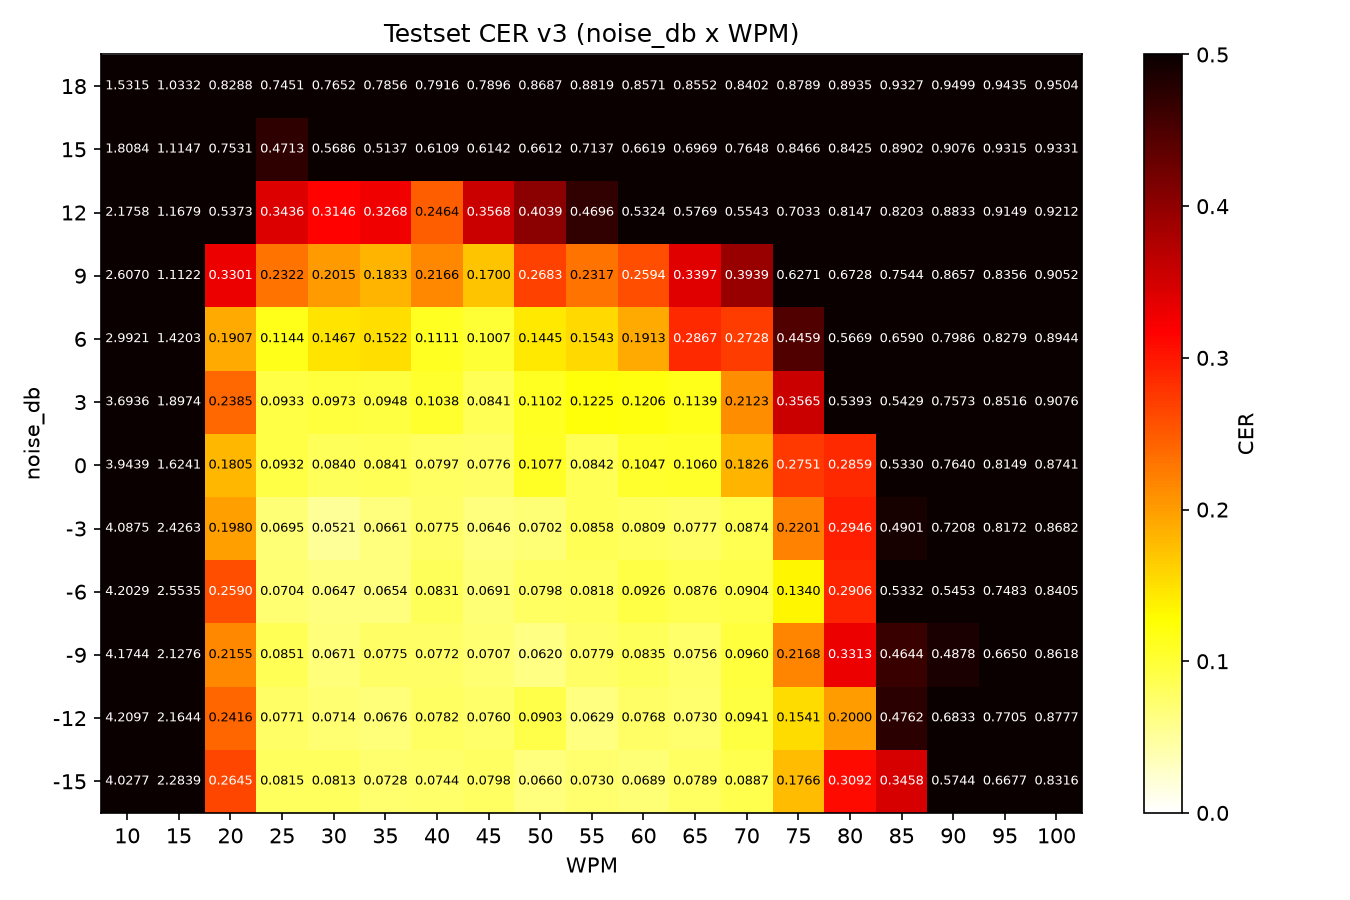
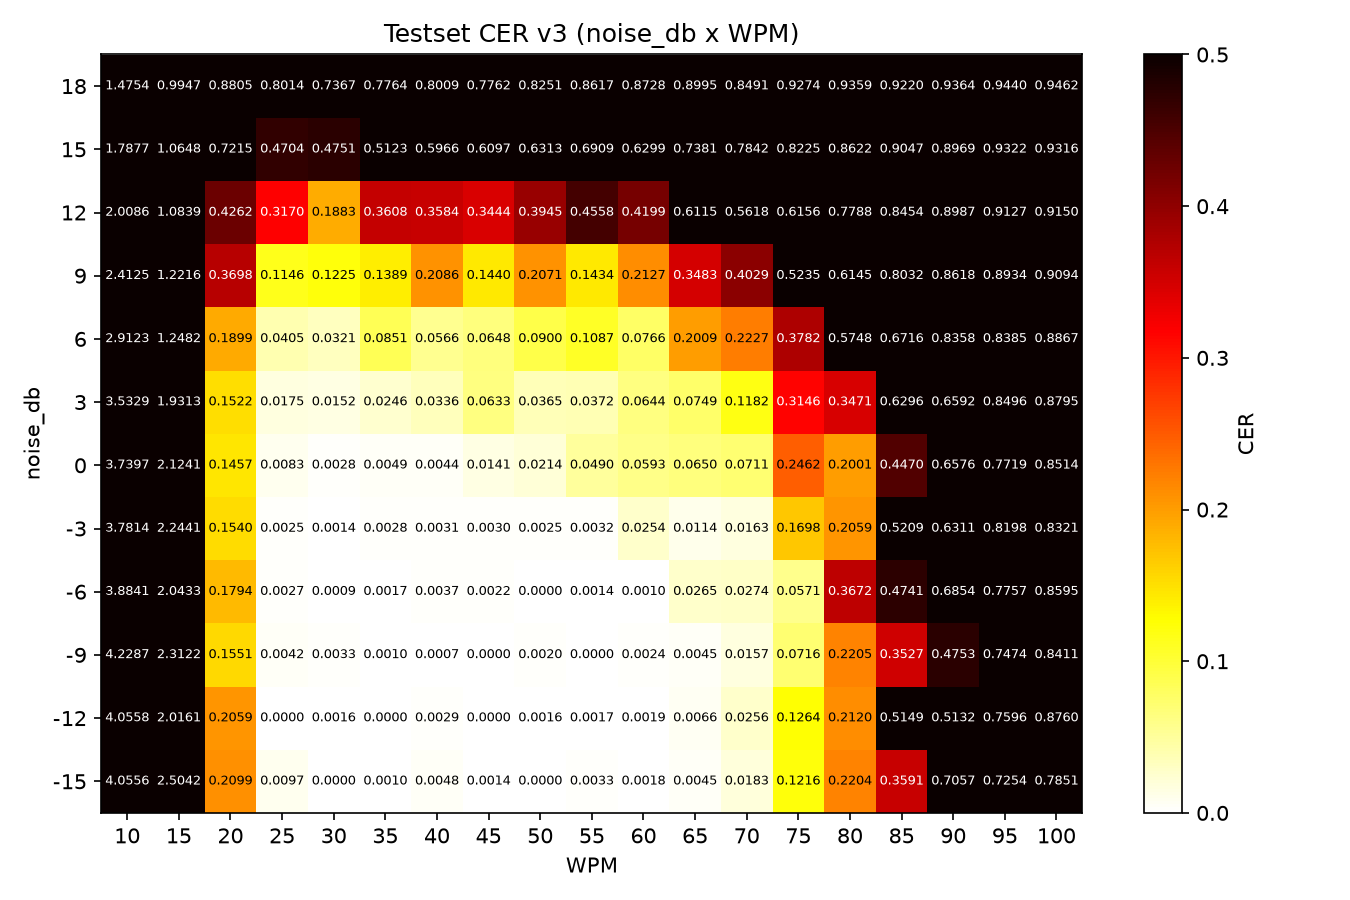
doc: update heatmap tested using correct volcab fot v1 and v3 model which is not trained for symbols

diff --git a/trainv5.py b/trainv5.py
@@ -95,14 +95,14 @@ def _batch_cer(logits, ilens, texts, idx2char):
     return total_d / total_chars
 
 @torch.no_grad()
-def evaluate(model, loader, device, amp_dtype=None):
+def evaluate(model, loader, device, use_autocast=False, autocast_dtype=None, model_dtype=torch.float32):
     model.eval()
     total_d, total_chars = 0, 0
     n = 0
     pbar = tqdm(loader, desc="val", leave=False, dynamic_ncols=True)
     for blocks, num_blocks, target, tlens, texts in pbar:
-        blocks = blocks.to(device)
-        with torch.amp.autocast("cuda", enabled=amp_dtype is not None, dtype=amp_dtype):
+        blocks = blocks.to(device=device, dtype=model_dtype)
+        with torch.amp.autocast("cuda", enabled=use_autocast, dtype=autocast_dtype):
             logits = model(blocks, num_blocks)
         ilens = num_blocks * CNN_T
         preds = greedy_decode(logits, ilens, IDX2CHAR)
@@ -180,7 +180,7 @@ def _load_v3_to_v5(v3_path: str, v5_model: CWModel, device: torch.device):
 def main():
     ap = argparse.ArgumentParser()
     ap.add_argument("--epochs", type=int, default=50)
-    ap.add_argument("--batch", type=int, default=48)
+    ap.add_argument("--batch", type=int, default=32)
     ap.add_argument("--lr", type=float, default=5e-3)
     ap.add_argument("--weight_decay", type=float, default=1e-2,
                     help="AdamW weight decay (decoupled)")
@@ -214,6 +214,8 @@ def main():
                     choices=["bf16", "fp16", "fp32"],
                     help="混合精度 dtype: bf16 (默认, 无需 scaler), "
                          "fp16 (需 GradScaler), fp32 (禁用)")
+    ap.add_argument("--compile", action="store_true", default=False,
+                    help="启用 torch.compile 编译模型 (需 PyTorch 2.0+)")
     args = ap.parse_args()
 
     args.logdir = os.path.join(args.logdir, datetime.now().strftime("%Y%m%d_%H%M%S"))
@@ -222,12 +224,19 @@ def main():
     device = torch.device("cuda" if torch.cuda.is_available() else "cpu")
     print(f"device={device}")
     if args.amp_dtype == "fp32" or device.type != "cuda":
-        amp_dtype = None
-    else:
-        amp_dtype = torch.bfloat16 if args.amp_dtype == "bf16" else torch.float16
-    use_amp = amp_dtype is not None
-    use_scaler = use_amp and amp_dtype == torch.float16  # bf16 不需要 scaler
-    print(f"amp: {args.amp_dtype}  dtype={amp_dtype}  scaler={use_scaler}")
+        model_dtype = torch.float32
+        use_autocast = False
+        use_scaler = False
+    elif args.amp_dtype == "bf16":
+        model_dtype = torch.bfloat16
+        use_autocast = False  # 整个模型直接 .to(bf16), 不用 autocast
+        use_scaler = False
+    else:  # fp16
+        model_dtype = torch.float32  # 模型权重保持 fp32, autocast 动态降精度
+        use_autocast = True
+        use_scaler = True
+    print(f"amp: {args.amp_dtype}  model_dtype={model_dtype}  "
+          f"autocast={use_autocast}  scaler={use_scaler}")
 
     train_ds = CnnSetV5(TRAIN_CSV, TRAIN_IMG)
     print(f"train sequences: {len(train_ds)}")
@@ -255,19 +264,30 @@ def main():
                             num_workers=args.workers, collate_fn=collate,
                             pin_memory=True)
 
-    model = CWModel(vocab_size=len(IDX2CHAR) - 1).to(device)
+    model = CWModel(vocab_size=len(IDX2CHAR) - 1).to(device=device, dtype=model_dtype)
     n_params = sum(p.numel() for p in model.parameters())
     print(f"params: {n_params/1e6:.2f}M")
+
+    # base_model: 始终指向原始未编译模型, 用于 state_dict 存取与权重迁移
+    base_model = model
 
     # 多卡时自动用 DataParallel;保留裸 model 引用用于存取权重
     n_gpu = torch.cuda.device_count() if device.type == "cuda" else 0
     if n_gpu > 1:
-        dp_model = nn.DataParallel(model)
+        dp_model = nn.DataParallel(base_model)
         print(f"DataParallel on {n_gpu} GPUs")
     else:
-        dp_model = model
+        dp_model = base_model
 
-    opt = torch.optim.AdamW(model.parameters(), lr=args.lr,
+    # torch.compile 在 DataParallel 之后, 编译 DP 包装后的模型
+    # (compile + DP 的 replica 机制冲突, 需 compile 在外层)
+    if args.compile and device.type == "cuda":
+        dp_model = torch.compile(dp_model)
+        print("torch.compile enabled")
+    elif args.compile:
+        print("torch.compile requested but non-CUDA, skipped")
+
+    opt = torch.optim.AdamW(base_model.parameters(), lr=args.lr,
                             weight_decay=args.weight_decay)
 
     scaler = torch.amp.GradScaler("cuda", enabled=use_scaler)
@@ -312,7 +332,7 @@ def main():
     start_epoch = 0
     if args.resume:
         ck = torch.load(args.resume, map_location=device, weights_only=False)
-        model.load_state_dict(ck["model"])
+        base_model.load_state_dict(ck["model"])
         if "opt" in ck and args.resume_lr:
             opt.load_state_dict(ck["opt"])
             sched.load_state_dict(ck["sched"])
@@ -337,7 +357,7 @@ def main():
               f"global_step={global_step} best_cer={best_cer:.4f} "
               f"no_improve={no_improve}")
     if args.pretrain_v3 and not args.resume:
-        _load_v3_to_v5(args.pretrain_v3, model, device)
+        _load_v3_to_v5(args.pretrain_v3, base_model, device)
     writer = None if args.no_tb else SummaryWriter(args.logdir)
     try:
         for epoch in trange(start_epoch, args.epochs, desc="epoch", dynamic_ncols=True):
@@ -348,11 +368,11 @@ def main():
             running_cer = 0.0
             rcn = 0
             for blocks, num_blocks, target, tlens, texts in pbar:
-                blocks = blocks.to(device, non_blocking=True)
+                blocks = blocks.to(device=device, dtype=model_dtype, non_blocking=True)
                 target = target.to(device, non_blocking=True)
                 tlens = tlens.to(device, non_blocking=True)
 
-                with torch.amp.autocast("cuda", enabled=amp_dtype is not None, dtype=amp_dtype):
+                with torch.amp.autocast("cuda", enabled=use_autocast, dtype=torch.float16):
                     logits = dp_model(blocks, num_blocks)
                     ilens = (num_blocks * CNN_T).to(device)
                     loss = ctc_loss(logits, target, ilens, tlens)
@@ -360,7 +380,7 @@ def main():
                 opt.zero_grad()
                 scaler.scale(loss).backward()
                 scaler.unscale_(opt)
-                torch.nn.utils.clip_grad_norm_(model.parameters(), 10.0)
+                torch.nn.utils.clip_grad_norm_(base_model.parameters(), 10.0)
                 scaler.step(opt)
                 scaler.update()
 
@@ -388,7 +408,7 @@ def main():
                         tqdm.write(f"  pred: {p}")
 
             sched.step()
-            cer, n = evaluate(dp_model, val_loader, device, amp_dtype=amp_dtype)
+            cer, n = evaluate(dp_model, val_loader, device, use_autocast=use_autocast, autocast_dtype=torch.float16, model_dtype=model_dtype)
             tqdm.write(f"[epoch {epoch:02d}] val CER={cer:.4f} (n={n}) "
                        f"lr={sched.get_last_lr()[0]:.2e} best={best_cer:.4f}")
 
@@ -399,7 +419,7 @@ def main():
             if cer < best_cer:
                 best_cer = cer
                 no_improve = 0
-                torch.save({"model": model.state_dict(), "epoch": epoch,
+                torch.save({"model": base_model.state_dict(), "epoch": epoch,
                             "cer": cer, "vocab": IDX2CHAR,
                             "opt": opt.state_dict(), "sched": sched.state_dict(),
                             "scaler": scaler.state_dict(),
@@ -409,7 +429,7 @@ def main():
                 tqdm.write(f"  -> saved best_v5.pt (CER={cer:.4f})")
             else:
                 no_improve += 1
-            torch.save({"model": model.state_dict(), "epoch": epoch,
+            torch.save({"model": base_model.state_dict(), "epoch": epoch,
                         "opt": opt.state_dict(), "sched": sched.state_dict(),
                         "scaler": scaler.state_dict(),
                         "global_step": global_step, "best_cer": best_cer,

diff --git a/build_testset_only.py b/build_testset_only.py
@@ -22,6 +22,9 @@ TEST_WPMS = tuple(range(10, 101, 5))
 PER_CAT = EVAL_PER_CAT // 10
 
 
+ALLOWED_CHARS = set("ABCDEFGHIJKLMNOPQRSTUVWXYZ0123456789 ")
+
+
 def main():
     ap = argparse.ArgumentParser()
     ap.add_argument("--workers", type=int, default=0,
@@ -30,6 +33,9 @@ def main():
 
     pool = _load_tagged(RANDOM50_TXT, "random50")
     print(f"random50 pool: {len(pool)}")
+
+    pool = [(t, s) for t, s in pool if set(t) <= ALLOWED_CHARS]
+    print(f"random50 after vocab filter: {len(pool)}")
 
     _, _, p_test = _split_pool(pool, POOL_SPLIT)
     print(f"random50 split: test={len(p_test)}")

diff --git a/modelv5.py b/modelv5.py
@@ -91,7 +91,8 @@ class CWModel(nn.Module):
 def ctc_loss(logits: torch.Tensor, targets: torch.Tensor,
              input_lengths: torch.Tensor, target_lengths: torch.Tensor):
 
-    logp = F.log_softmax(logits, dim=-1).transpose(0, 1)
+    # log_softmax 在低精度下数值不稳定, 强制 upcast 到 fp32
+    logp = F.log_softmax(logits.float(), dim=-1).transpose(0, 1)
     return F.ctc_loss(logp, targets, input_lengths, target_lengths,
                       blank=0, reduction="mean", zero_infinity=True)
 

diff --git a/README.md b/README.md
@@ -43,7 +43,7 @@ random50：10000个30-50位随机长度的随机字母数字空格
 
 CNN网络首先通过卷积层快速将高度压缩到1px，意图使网络快速学会忽略和压缩频偏，然后做1D CNN提取点划空特征，随后提取到的这些特征送入BiGRU，接入CTC后进行学习。
 
-v1 结构 (0.17M)：
+v1 (0.17M) 最佳 epoch=43, cer=0.1097 结构：
 - 3x3 conv2d stride4x1 padding0x1 Norm ReLU 16ch
 - 3x3 conv2d stride4x1 padding0x1 Norm ReLU 32ch
 至此，模型已经完全和压缩频偏（高度为1），随后：
@@ -54,10 +54,9 @@ v1 结构 (0.17M)：
 最终贪心以后得到结果，损失直接使用标准CTCLoss。
 第一次最佳 epoch=27, cer=0.1137 手动降低学习率，随后
 第二次最佳 epoch=30, cer=0.1110 改进学习率下降函数 降低学习率
-第二次最佳 epoch=43, cer=0.1097 
-![](cer_heatmap.png)
+![](cer_heatmapv1_v3method.png)
 
-v1.1(参数加大加宽版 0.7M) 结构：
+v1.1(参数加大加宽版 0.7M) 最佳 epoch=33, cer=0.1092 结构：
 - 3x3 conv2d stride4x1 padding0x1 Norm ReLU 32ch
 - 3x3 conv2d stride4x1 padding0x1 Norm ReLU 64ch
 至此，模型已经完全和压缩频偏（高度为1），随后：
@@ -68,8 +67,7 @@ v1.1(参数加大加宽版 0.7M) 结构：
 - BiGRU layer2 input128 hidden128 drop0.3
 最终贪心以后得到结果，损失直接使用标准CTCLoss。
 第一次最佳 epoch=7, cer=0.1172 手动降低学习率，随后
-第二次最佳 epoch=33, cer=0.1092
-![](cer_heatmapv11.png)
+![](cer_heatmapv1p1_v3method.png)
 
 纵然CER仍相对较高，但是我认为这是测试集中存在较低SNR和较极端WPM的样本，
 尤其的，有较低WPM的样本，模型感受野可能不足以识别整个点划。 顺便一提
@@ -78,18 +76,17 @@ v1.1(参数加大加宽版 0.7M) 结构：
 v2 (~~变形金刚~~版 1.92M) 结构：
 - 3x3 conv2d stride4x1 padding0x1 Norm ReLU 64ch
 - 3x3 conv2d stride4x1 padding0x1 Norm ReLU 128ch
-此处完全移除了1D卷积层，意图使Transfomer模型直接理解1D莫尔斯序列
 - EncoderOnlyTransfomer dmodel128 dffn512 nhead4 layer4 drop0.3
-最终贪心以后得到结果，损失直接使用标准CTCLoss。效果十分不好（）
 
-v3 (0.79M)结构：
+此处完全移除了1D卷积层，意图使Transfomer模型直接理解1D莫尔斯序列 难以收敛（）
+
+v3 (0.79M) 最佳 epoch=3  cer=0.0440 结构：
 - 3x3 conv2d stride4x1 padding0x1 Norm ReLU 16ch
 - 3x3 conv2d stride4x1 padding0x1 Norm ReLU 32ch
 - 3x1 conv1d dilation1 padding1 Norm ReLU 64ch
 - 3x1 conv1d dilation2 padding2 Norm ReLU 64ch
 - 3x1 conv1d dilation4 padding4 Norm ReLU 64ch
 - BiGRU layer3 input64 hidden128 drop0.3
-该神经网络只用 random50 进行训练,加入了DataParallel。
 - 附加噪声功率的范围改变到+18dB到-15dB，3dB每步 （验证集只执行+10到-10dB）
 - 验证集和测试集WPM范围改为10 25 30 35 40 45 50 55 60 65 80 （验证集只执行25到65）
 - 加入每个点划的WPM偏倚，范围为正负20%
@@ -99,13 +96,12 @@ v3 (0.79M)结构：
 - 50%的样本添加了随机的0.1-0.25单位的多径延迟，随机抽取3-5个多径
 这总共产生了约6.6G+2.2G+2.2G的数据集 发现val集有4w条数据，非常大，按1：5均匀抽取后，最终结果就是6：0.4 = 15：1
 
+该神经网络只用 random50 进行训练,加入了DataParallel。
+
 （阅读实现，发现LLM的val集一直是从test集中抽0.5%抽出来的，所以一定要盯着LLM写实现）
-最终结果： epoch=3  cer=0.044039199433132344
 分析特征图发现似乎卷积通道和1dCNN并没有提取出很好的特征，感觉过大是没必要的？
 
 ![](cer_heatmapv3.png)
-应当注意的是，v1和v3所运行的测试集难度不一样，所以不应用来互相比较。以下是同方法的v1结果：
-![](cer_heatmapv11_v3method.png)
 
 
 v4 (2.02M) 结构：
@@ -115,9 +111,10 @@ v4 (2.02M) 结构：
 - 3x1 conv1d dilation2 padding2 Norm GELU 128ch
 - 3x1 conv1d dilation4 padding4 Norm GELU 128ch
 - Transfomer d_model128 dimff512 nhead8 encode4 decode4 drop0.15
-再试试变形金刚,GELU
 - 添加了<bos>和<eos>token，添加了<unk>token
-阅读了代码 添加了便于读者理解的辅助注释
+
+再试试变形金刚,GELU 阅读了代码 添加了便于读者理解的辅助注释
+
 结果不收敛 依然非常不好
 
 v5 (3.04M)结构
@@ -127,10 +124,12 @@ v5 (3.04M)结构
 - 3x1 conv1d dilation2 padding2 Norm ReLU 64ch
 - 3x1 conv1d dilation4 padding4 Norm ReLU 128ch
 - BiLSTM layer3 input128 hidden256 drop0.3
+
 该神经网络用 random50 和 realcomm 进行训练， 添加了特殊的token [DEL]，在序列化的时候产生4-8个dot,dot间间隔有可能是1dot 有可能是2dot 但是这几个之间间隔是完全一样的 添加了特殊的token [SK] 在序列化的时候是	···-·- 添加了特殊的token [BK]  在序列化的时候是-···-·- 
 CNN层从v3best中net2net到v5作为起始权重
-考虑到超长的序列需求，这里换用了LSTM
-考虑到超长的序列需求，重定义了损失函数，只要输出一个space, 则gt无论有多少连续space都是0损失的
+
+考虑到超长的序列需求，这里换用了LSTM ，重定义了损失函数，只要输出一个space, 则gt无论有多少连续space都是0损失的
+
 训练效率太低，改回GRU
 
 测试集WPM范围改为10-100 步进5用来benchmark